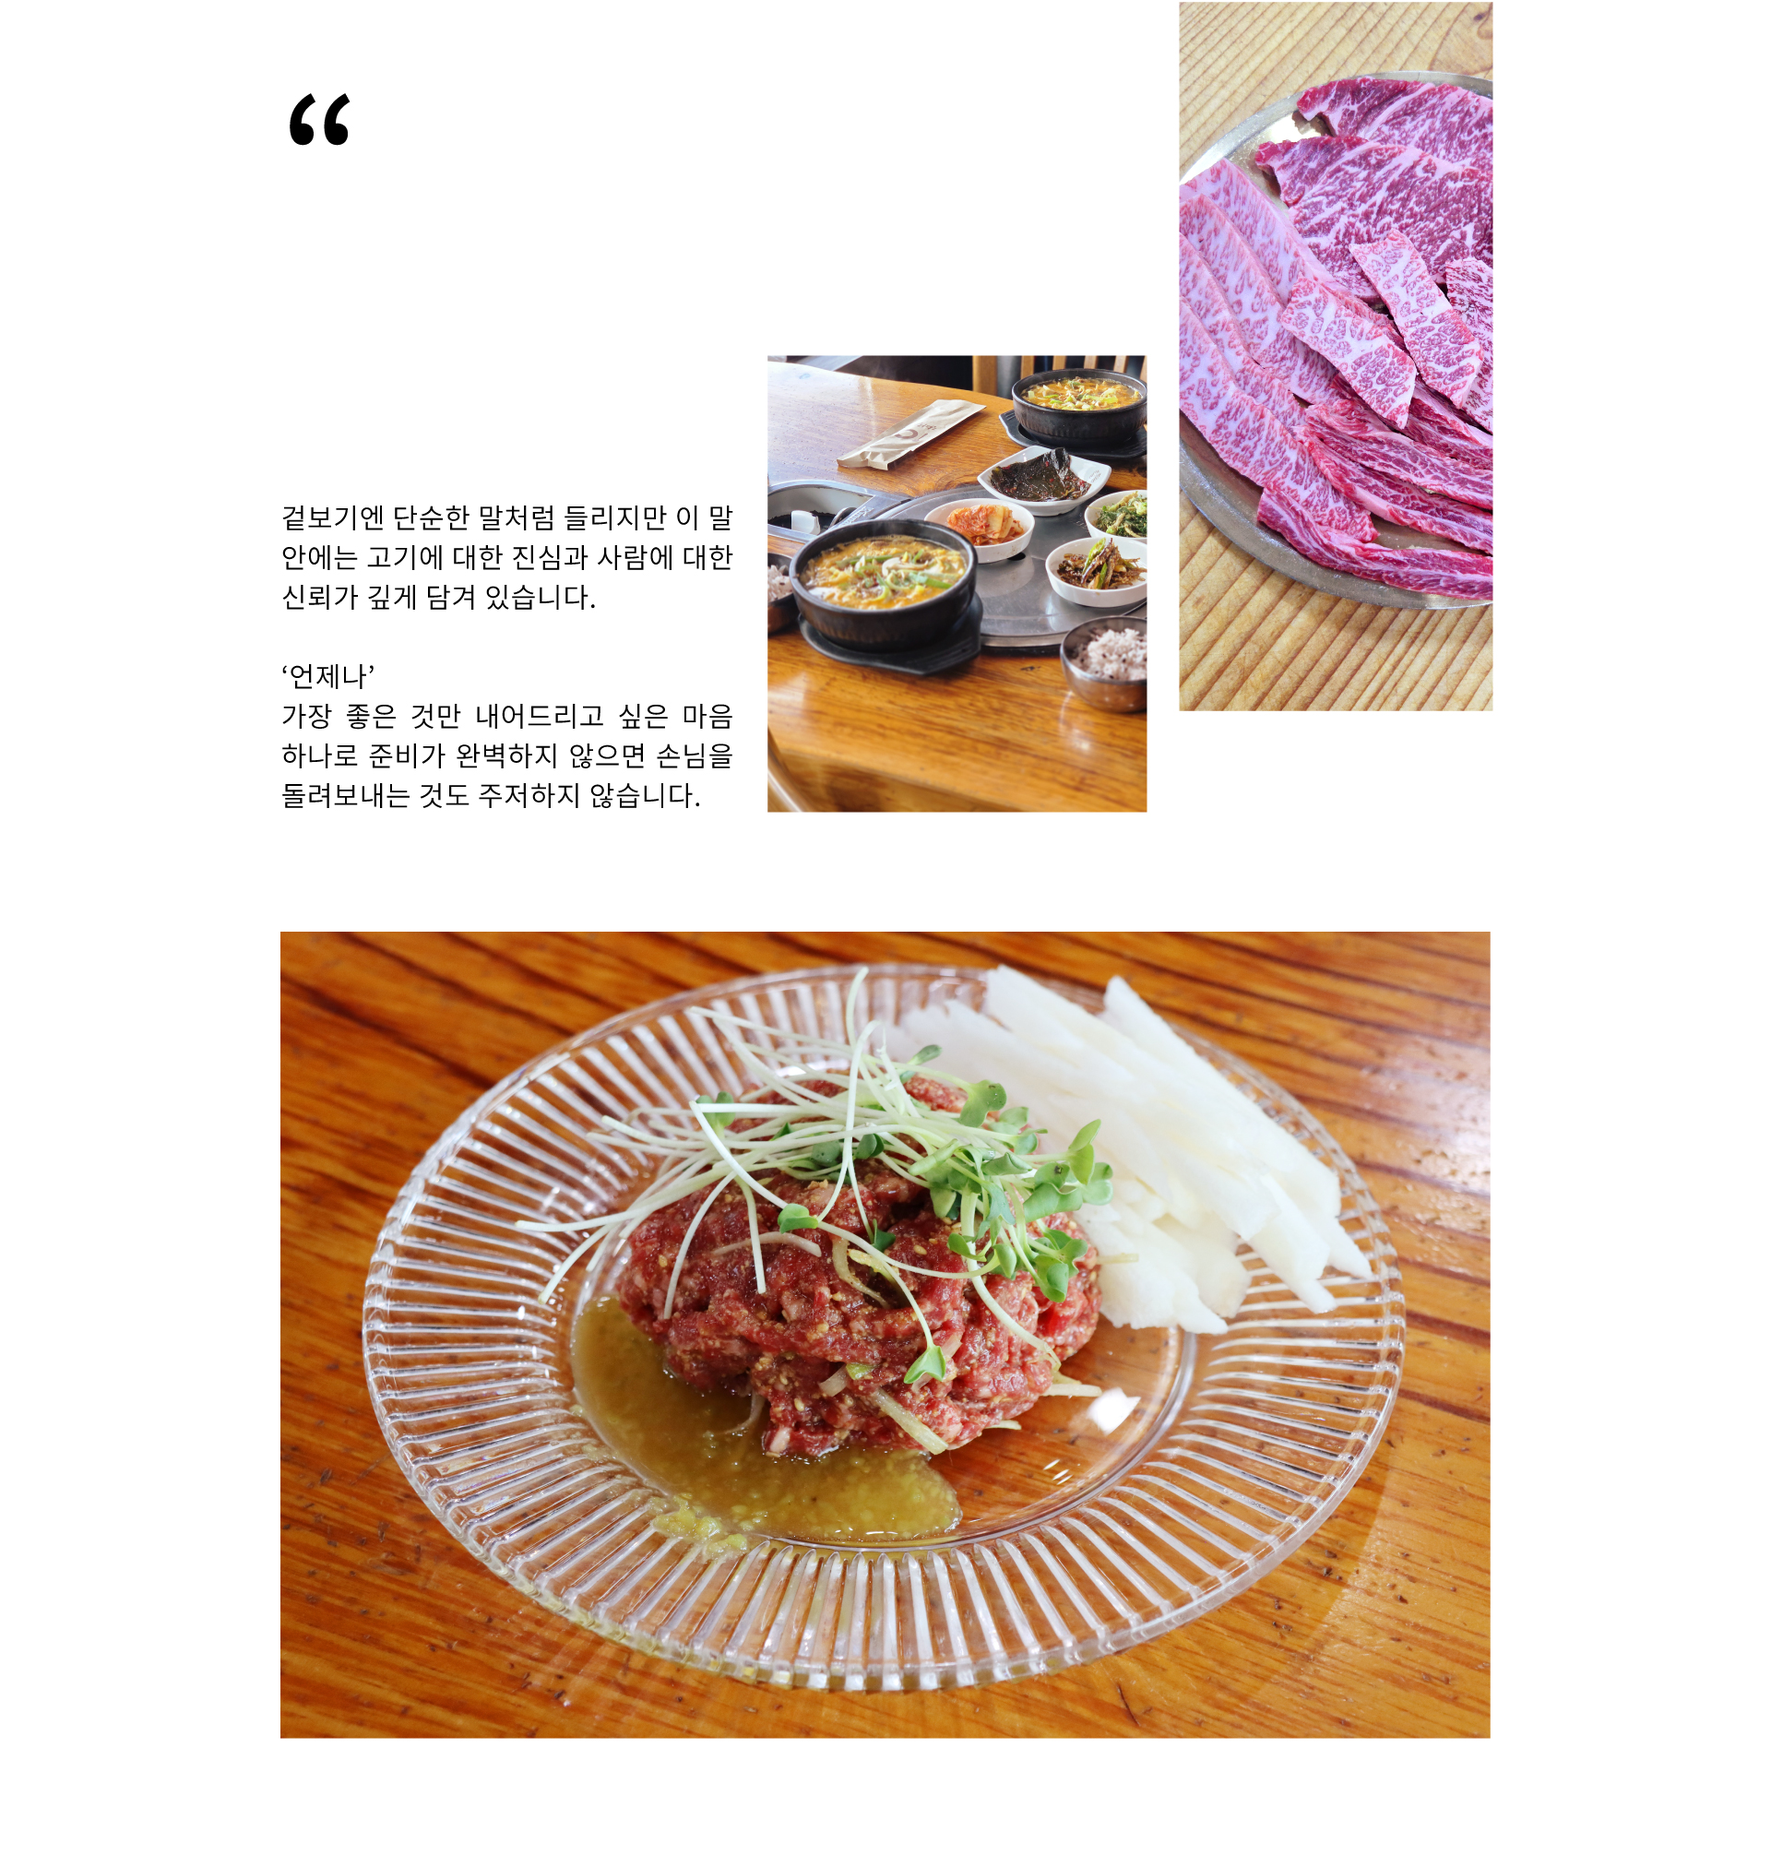
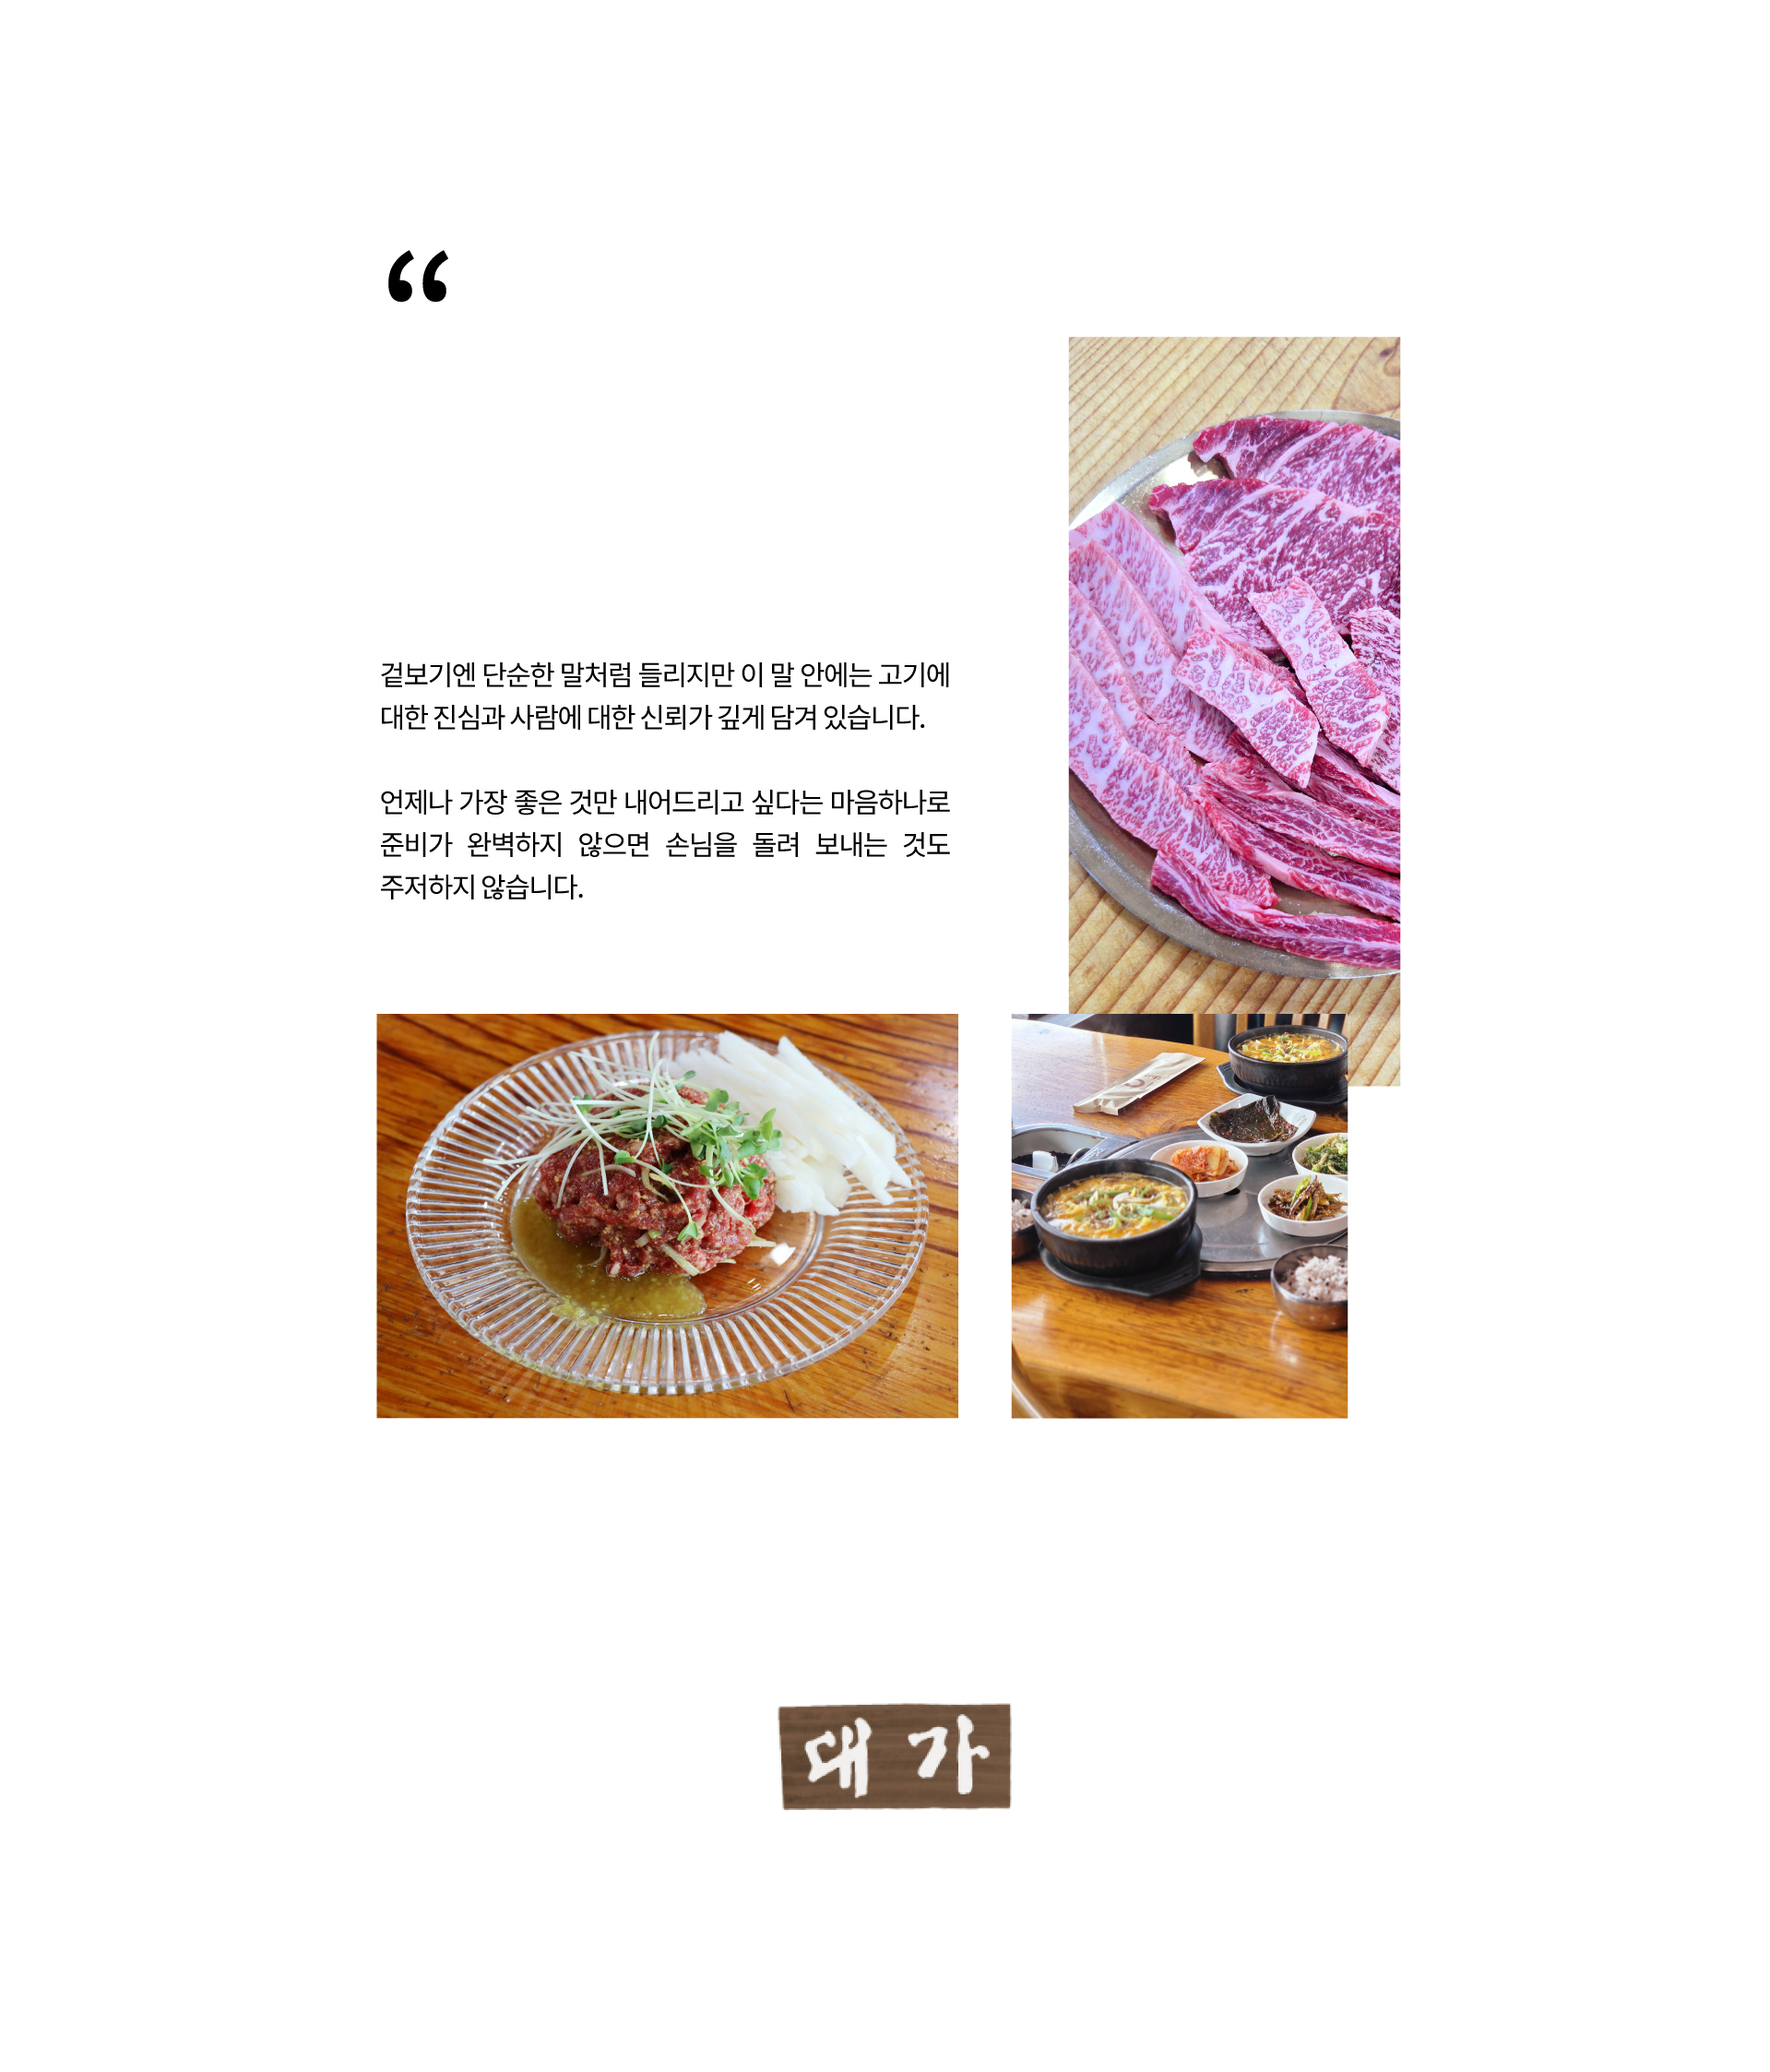
냥

diff --git a/src/data/storeData.js b/src/data/storeData.js
@@ -181,12 +181,20 @@ export const storeData = [
         hours: '매일 10:00 - 19:00 / 매주 화요일 휴무, 삼가 장날은 수요일 휴무',
         options: ['무료wifi', '주문배송', '포장가능', '주차장', '남여화장실구분', '일반식사메뉴', '제로페이', '유아의자', '단체이용예약가능'],
         image: '/SAMGA-V2/samga/store/상구한우_1.jpg',
-        detailimage: '/SAMGA-V2/samga/store/대가1호점_landing_detail.jpg',
+        detailimage: '/SAMGA-V2/samga/store/상구한우_landing_detail.jpg',
         description: '일상 속 고깃집,\n 그러나 결코 평범하지 않은 맛.',
         story: '',
         logo: '/SAMGA-V2/samga/logo/상구한우_logo.png',
         hashtag: ['#한우맛집', '#가족과 함께', '#단체손님',],
-        slogan: '분위기 맛집 이지만,\n 고기의 풍미는\n 분위기를 넘어선다.',
+        slogan: '일상 속 고깃집,\n 그러나 결코 평범하지 않은 맛.',
+        detailImagelist: [
+            '/SAMGA-V2/samga/store/sanggu/상구한우상세페이지_M_1.jpg',
+            '/SAMGA-V2/samga/store/sanggu/상구한우상세페이지_M_2.jpg',
+            '/SAMGA-V2/samga/store/sanggu/상구한우상세페이지_M_3.jpg',
+            '/SAMGA-V2/samga/store/sanggu/상구한우상세페이지_PC_1.jpg',
+            '/SAMGA-V2/samga/store/sanggu/상구한우상세페이지_PC_2.jpg',
+            '/SAMGA-V2/samga/store/sanggu/상구한우상세페이지_PC_3.jpg',
+        ],
     },
     {
         name: '태영한우',

diff --git a/src/data/storeData.ts b/src/data/storeData.ts
@@ -209,12 +209,20 @@ export interface Store {
       hours: '매일 10:00 - 19:00 / 매주 화요일 휴무, 삼가 장날은 수요일 휴무',
       options: ['무료wifi', '주문배송', '포장가능', '주차장', '남여화장실구분', '일반식사메뉴', '제로페이', '유아의자', '단체이용예약가능'],
       image: '/SAMGA-V2/samga/store/상구한우_1.jpg',
-      detailimage: '/SAMGA-V2/samga/store/대가1호점_landing_detail.jpg',
+      detailimage: '/SAMGA-V2/samga/store/상구한우_landing_detail.jpg',
       description:'일상 속 고깃집,\n 그러나 결코 평범하지 않은 맛.',
       story:'',
       logo:'/SAMGA-V2/samga/logo/상구한우_logo.png',
       hashtag: ['#한우맛집','#가족과 함께','#단체손님',],
-      slogan :'분위기 맛집 이지만,\n 고기의 풍미는\n 분위기를 넘어선다.',
+      slogan :'일상 속 고깃집,\n 그러나 결코 평범하지 않은 맛.',
+      detailImagelist : [
+        '/SAMGA-V2/samga/store/sanggu/상구한우상세페이지_M_1.jpg',
+        '/SAMGA-V2/samga/store/sanggu/상구한우상세페이지_M_2.jpg',
+        '/SAMGA-V2/samga/store/sanggu/상구한우상세페이지_M_3.jpg',
+        '/SAMGA-V2/samga/store/sanggu/상구한우상세페이지_PC_1.jpg',
+        '/SAMGA-V2/samga/store/sanggu/상구한우상세페이지_PC_2.jpg',
+        '/SAMGA-V2/samga/store/sanggu/상구한우상세페이지_PC_3.jpg',
+      ],
     },
     {
       name: '태영한우',

diff --git a/src/components/store/storeDetail.css b/src/components/store/storeDetail.css
@@ -388,9 +388,11 @@
 
 
 /* ✅ 각 텍스트 위치 및 스타일 개별 설정 */
+
+/* 대가 1호점 */
 .deaga1-1 {
-  top: 5%;
-  right: 37%;
+  top: 9.5%;
+  right: 35%;
   font-size: clamp(28px, 4vw, 60px);
   font-weight: bold;
   text-align: left;
@@ -399,8 +401,8 @@
 }
 
 .deaga1-2 {
-  top: 10%;
-  left: 15.9%;
+  top: 16%;
+  left: 21%;
   transform: translateX(0);
   font-size: clamp(28px, 4vw, 60px);
   font-weight: 700;
@@ -413,9 +415,10 @@
   padding-left: 4em;
 } */
 
+
 .deaga1-3 {
   top: 6.5%;
-  right: 30.5%;
+  right: 29.5%;
   font-size: clamp(28px, 4vw, 60px);
   font-weight: 700;
   text-align: start;
@@ -423,7 +426,7 @@
   letter-spacing: -2px;
 }
 
-
+/* 도원 */
 .dowon1 {
   top: 55%;
   right: 32%;
@@ -458,7 +461,7 @@
 
 }
 
-
+/* 대가한우 */
 
 .deagaH1 {
   top: 61%;
@@ -492,6 +495,39 @@
   letter-spacing: -2px;
 }
 
+
+/* 상구 */
+.sanggu1 {
+  top: 37%;
+  right: 27.5%;
+  font-size: clamp(28px, 4vw, 60px);
+  font-weight: bold;
+  text-align: left;
+  letter-spacing: -2px;
+
+}
+
+.sanggu2 {
+  top: 11%;
+  left: 21%;
+  transform: translateX(0);
+  font-size: clamp(28px, 4vw, 60px);
+  font-weight: 700;
+  text-align: start;
+  line-height: 1.2;
+  letter-spacing: -2px;
+}
+
+
+.sanggu3 {
+  top: 50.5%;
+  right: 28%;
+  font-size: clamp(28px, 4vw, 60px);
+  font-weight: 700;
+  text-align: start;
+  line-height: 1.2;
+  letter-spacing: -2px;
+}
 
 
 

diff --git a/src/data/storeDetailAssets.js b/src/data/storeDetailAssets.js
@@ -9,7 +9,7 @@ export const storeDetailAssets = {
             className: 'deaga1-2',
         },
         {
-            text: '유러피안 정원\n고요한 숲 속의\n분위기 속 카페\n플로리안',
+            text: '고요한 숲 속의\n분위기 속 카페\n플로리안',
             className: 'deaga1-3',
         },
     ],
@@ -39,6 +39,20 @@ export const storeDetailAssets = {
         {
             text: '우리집 식탁에서\n만나 볼 수 있는 삼가 한우',
             className: 'dowon3',
+        },
+    ],
+    '상구한우': [
+        {
+            text: '삼가시장 한가운데 \n 자리한 ‘상구한우’는 ',
+            className: 'sanggu1',
+        },
+        {
+            text: '처음 오신 분도,\n오래된 단골 손님도 \n편하게 들렸다 마음 놓고 \n푸짐하게 드실수 있는곳',
+            className: 'sanggu2',
+        },
+        {
+            text: '다양한 메뉴\n취향 따라 고르는 재미',
+            className: 'sanggu3',
         },
     ],
     // 다른 가게도 동일하게 정의

diff --git a/src/data/storeDetailAssets.ts b/src/data/storeDetailAssets.ts
@@ -15,7 +15,7 @@ type StyleText = {
         className: 'deaga1-2',
       },
       {
-        text: '유러피안 정원\n고요한 숲 속의\n분위기 속 카페\n플로리안',
+        text: '고요한 숲 속의\n분위기 속 카페\n플로리안',
         className: 'deaga1-3',
       },
     ],
@@ -46,6 +46,22 @@ type StyleText = {
         text: '우리집 식탁에서\n만나 볼 수 있는 삼가 한우',
         className: 'dowon3',
       },
+    ],
+    '상구한우': [
+      {
+        text: '삼가시장 한가운데 \n 자리한 ‘상구한우’는 ',
+        className: 'sanggu1',
+      },
+      {
+        text: '처음 오신 분도,\n오래된 단골 손님도 \n편하게 들렸다 마음 놓고 \n푸짐하게 드실수 있는곳',
+        className: 'sanggu2',
+      },
+      {
+        text: '다양한 메뉴\n취향 따라 고르는 재미',
+        className: 'sanggu3',
+      },
+
+     
     ],
     // 다른 가게도 동일하게 정의
   }
